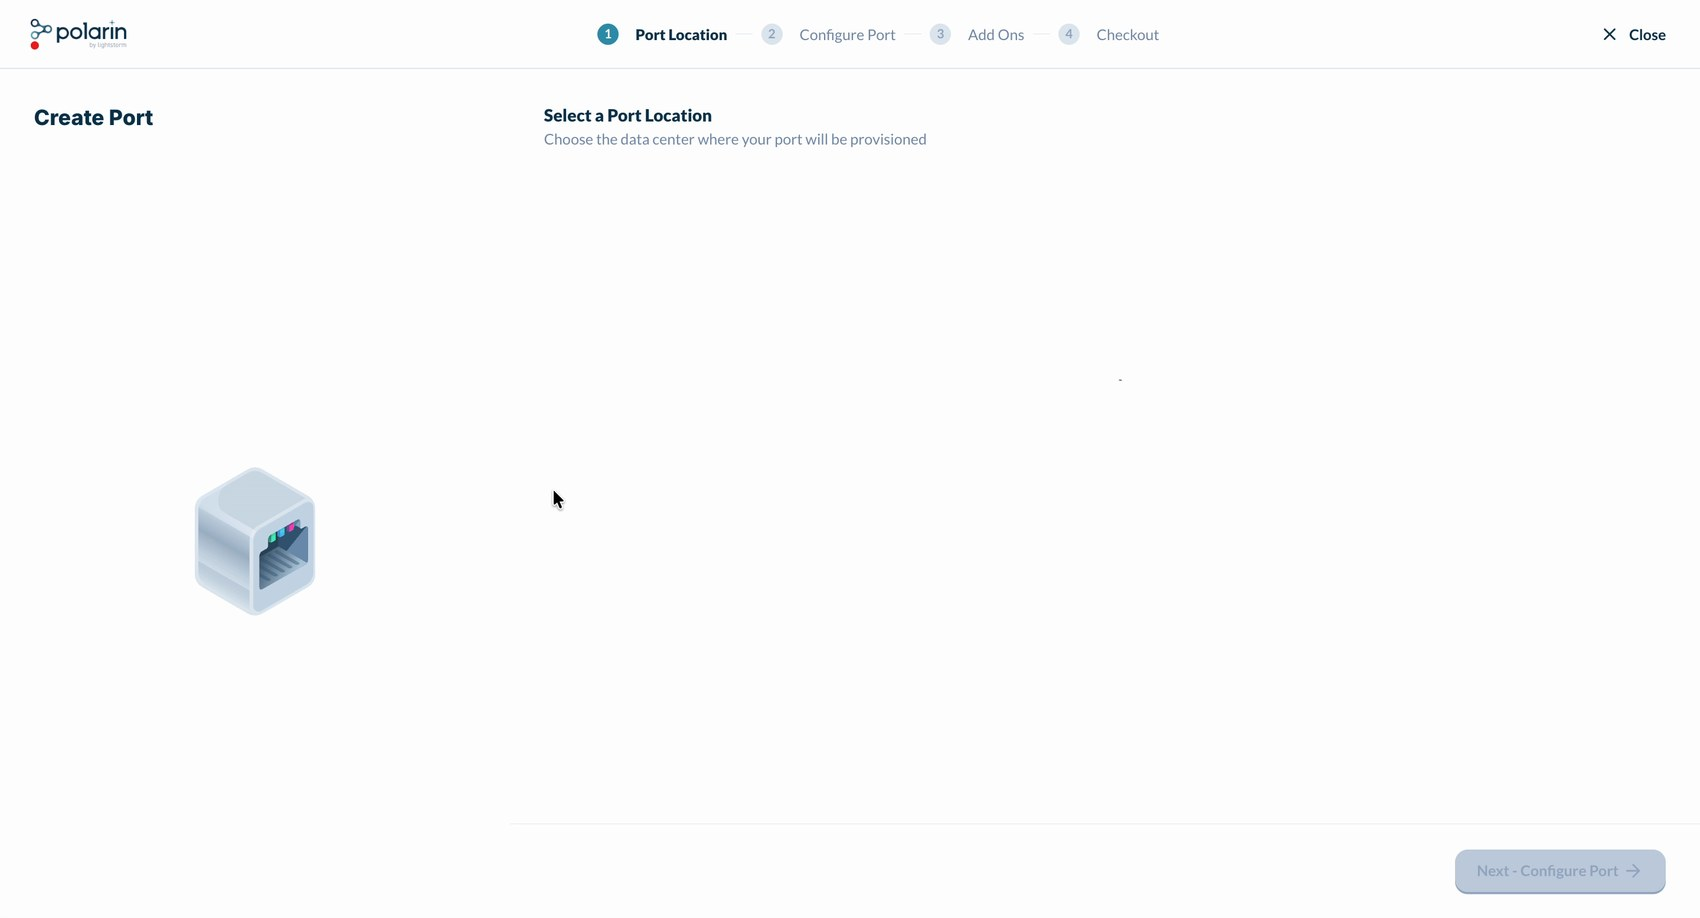
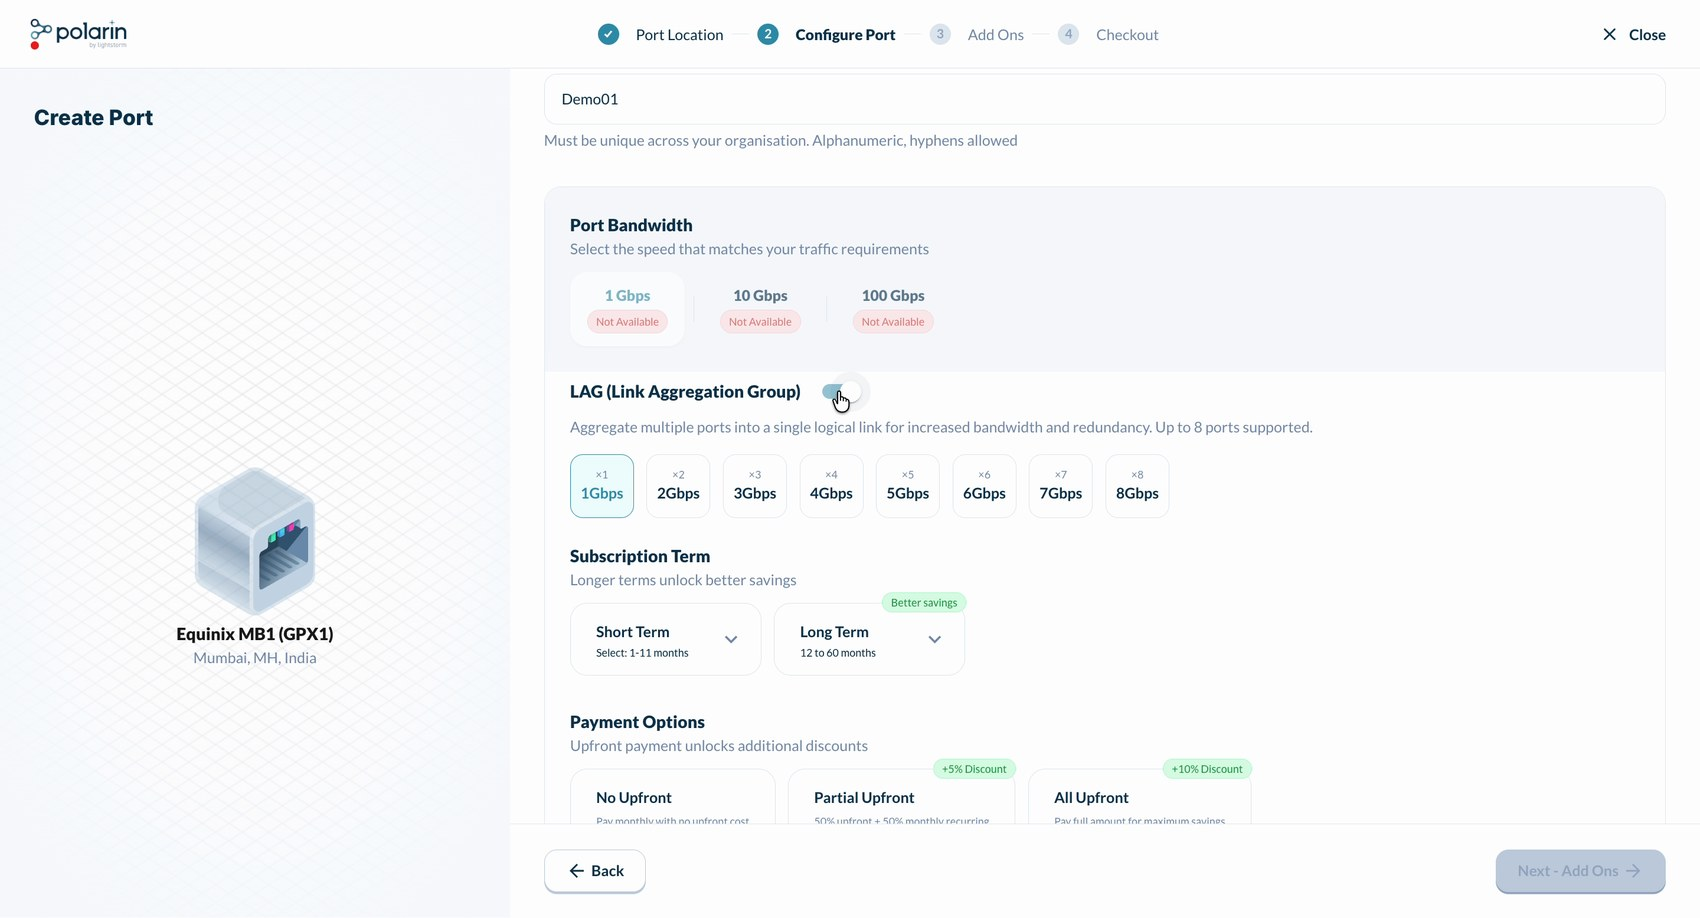
fix: correct swapped Configure Port / Add Ons screenshots on Create a Port
The two frames were mislabeled during extraction, so the Configure Port
step showed a blank location screen and the Add Ons step showed the
bandwidth/LAG form instead of Cross Connect and VISTA. Swapped in the
correct frames and rewrote the Add Ons copy to match the real screen
(LOA upload flow, VISTA Premium included free by default for a Port).

diff --git a/src/app/components/knowledge-base/articles/CreatePortPage.tsx b/src/app/components/knowledge-base/articles/CreatePortPage.tsx
@@ -100,25 +100,24 @@ export function CreatePortPage({ onNavigate }: Props) {
       </P>
       <UL>
         <LI>
-          <strong>Cross Connect</strong> — Polarin arranges and manages the physical cross connect inside the
-          data centre for you ("Managed by Lightstorm"). You either upload a Letter of Authorization (LOA)
-          document, or enter the cross connect details manually (exchange, suite/cage, patch panel, and
-          connector type) if you'd rather arrange it yourself at your data centre operator. It's billed as part
-          of the port's own billing profile — no separate line item to manage.
+          <strong>Cross Connect</strong> — "Let Lightstorm set up your physical cross connect" (badged Faster
+          delivery / End-to-end managed). Choose <strong>I have the LOA file</strong> and upload your Letter of
+          Authorization (PDF, JPG, or PNG, up to 5 MB), or <strong>I will enter the details manually</strong> if
+          you'd rather arrange it yourself at your data centre operator. It's billed as part of the port's own
+          billing profile — no separate line item to manage.
         </LI>
         <LI>
-          <strong>VISTA</strong> — Polarin's network intelligence add-on. <strong>Standard</strong> is free and
-          covers basic network statistics and daily performance reports. <strong>Premium</strong> adds 24/7
-          monitoring support, real-time monitoring, advanced traffic analytics, proactive alert notifications,
-          performance optimisation insights, and custom dashboards & reports. See{" "}
+          <strong>VISTA</strong> — Polarin's network intelligence add-on. For a Port, the <strong>VISTA Premium
+          package is included by default at no extra cost</strong> — there's no separate Standard/Premium choice
+          to make here. Click <strong>View Benefits</strong> to expand the full feature list. See{" "}
           <PageLink label="VISTA for Port" onClick={() => onNavigate("vista-port")} /> for what each metric
           actually shows you.
         </LI>
       </UL>
       <DocImage
         src="/screenshots/ports/02-add-ons.jpg"
-        alt="Add Ons step with VISTA Standard and Premium comparison"
-        caption="VISTA Standard vs Premium — Premium's full feature list expands inline"
+        alt="Add Ons step with Cross Connect LOA upload and VISTA included by default"
+        caption="Cross Connect's LOA upload, and VISTA Premium included free with every port"
       />
 
       {/* ── Step 4 ── */}
